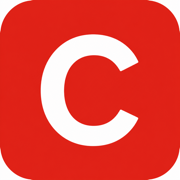
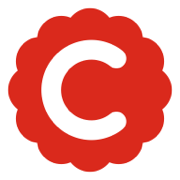
Щоб у вкладці була іконка «Сільпо», а не зламаний квадрат із літерою.

diff --git a/public/index.html b/public/index.html
@@ -7,6 +7,7 @@
   <meta name="apple-mobile-web-app-capable" content="yes">
   <meta name="description" content="AI-навігатор по магазину Сільпо на офіційному MCP: 3D-схема залу, маршрут до товару та Цінотижики по дорозі.">
   <link rel="manifest" href="/manifest.webmanifest">
+  <link rel="icon" href="/favicon.ico" sizes="32x32">
   <link rel="icon" href="/favicon.svg" type="image/svg+xml">
   <link rel="icon" href="/favicon-32.png" type="image/png" sizes="32x32">
   <link rel="apple-touch-icon" href="/apple-touch-icon.png">
